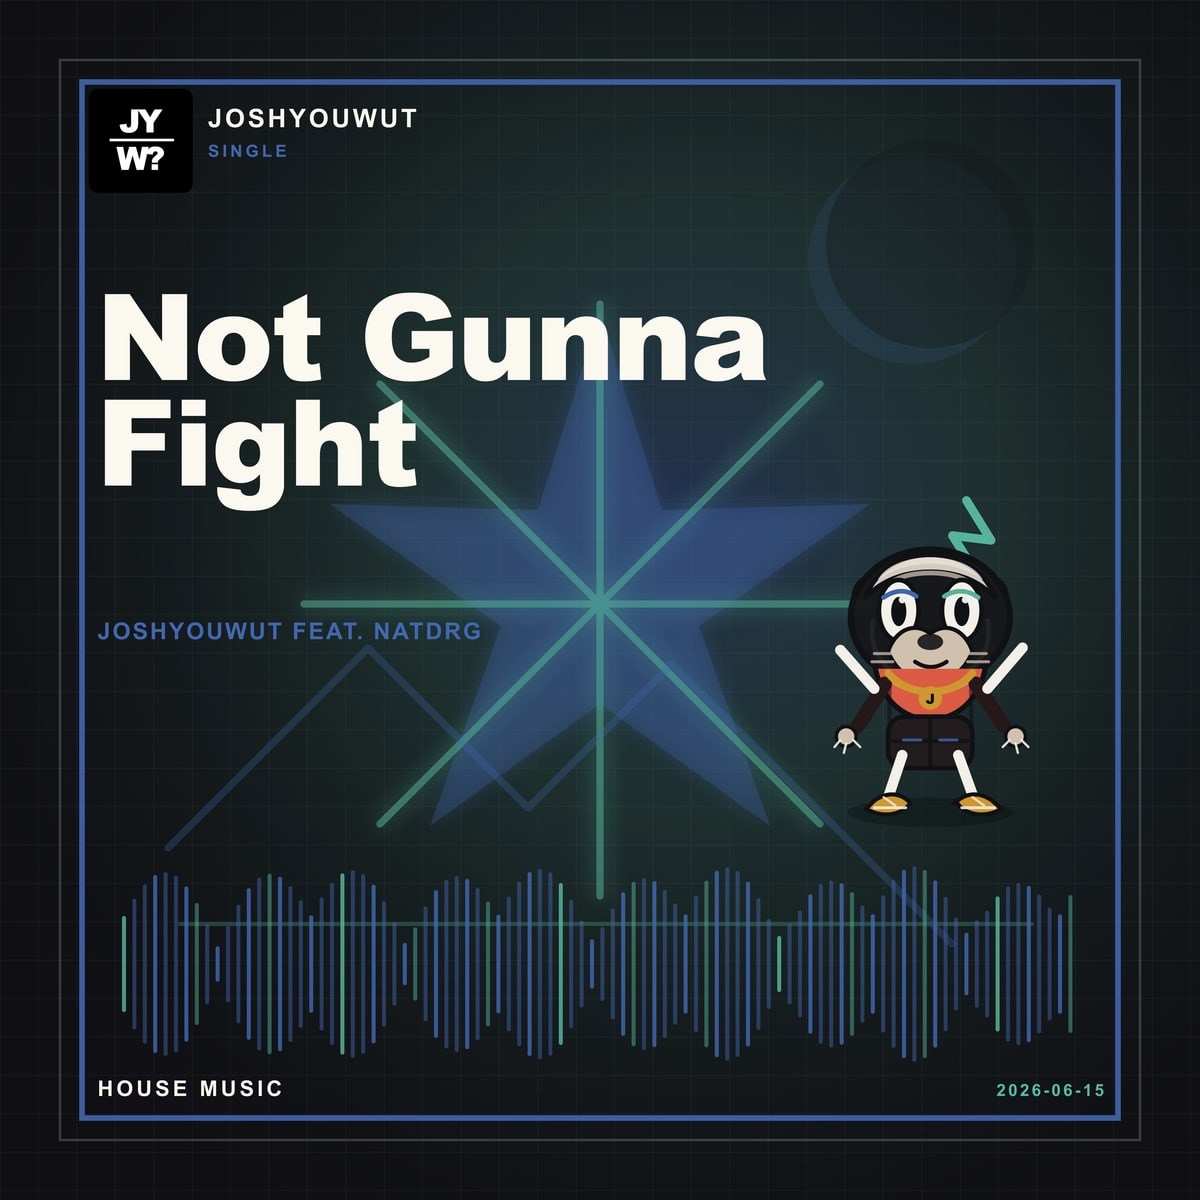
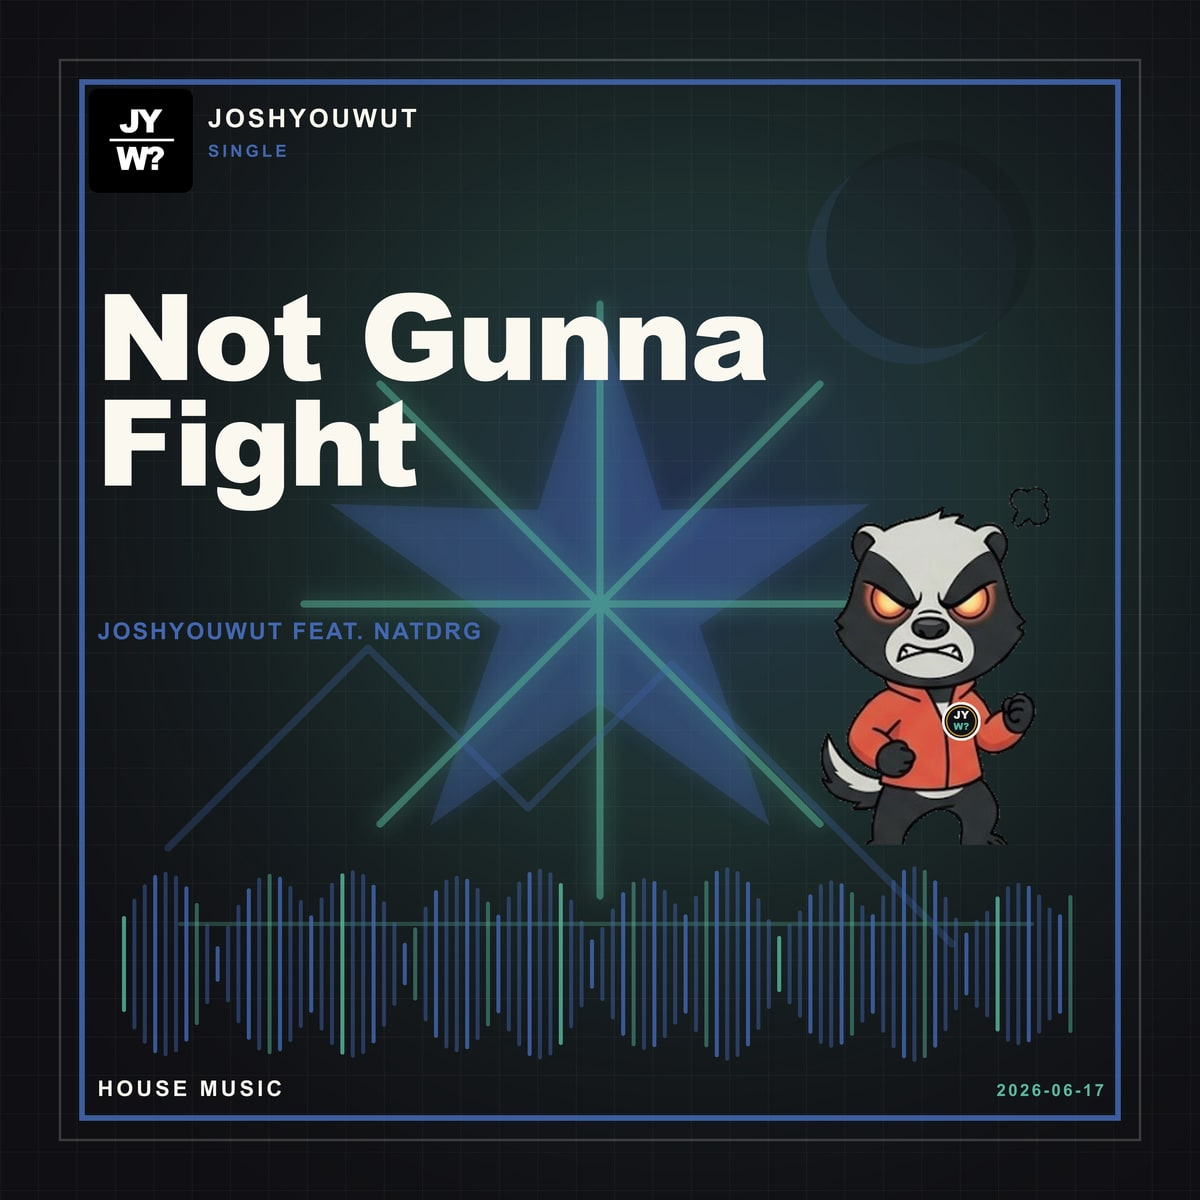
Use high-res Gemini badgers on cover vote

Changed region(s): [[0.6783, 0.4008, 0.8633, 0.7092]]

diff --git a/house-to-bet-the-house-on-vote-20260613.html b/house-to-bet-the-house-on-vote-20260613.html
@@ -171,68 +171,68 @@
         Pick the strongest version for each single and the EP cover. The full-resolution masters and editable SVG sources remain in the Google Drive project folder.
       </p>
 
-      <img class="contact-sheet" src="assets/releases/house-to-bet-the-house-on/voting-contact-sheet-house-to-bet.jpg?v=20260615-detailedbadger" alt="Voting contact sheet for House to Bet The House On cover art">
+      <img class="contact-sheet" src="assets/releases/house-to-bet-the-house-on/voting-contact-sheet-house-to-bet.jpg?v=20260617-geminibadgers" alt="Voting contact sheet for House to Bet The House On cover art">
 
       <section class="release-row">
         <h2>EP Cover</h2>
         <div class="grid">
-          <figure><img src="assets/releases/house-to-bet-the-house-on/00-house-to-bet-the-house-on-ep-cover-v1-club-pulse.jpg?v=20260615-detailedbadger" alt="EP cover option V1 Club Pulse"><figcaption><b>V1</b><span>Club Pulse</span></figcaption></figure>
-          <figure><img src="assets/releases/house-to-bet-the-house-on/00-house-to-bet-the-house-on-ep-cover-v2-bet-floor.jpg?v=20260615-detailedbadger" alt="EP cover option V2 Bet Floor"><figcaption><b>V2</b><span>Bet Floor</span></figcaption></figure>
-          <figure><img src="assets/releases/house-to-bet-the-house-on/00-house-to-bet-the-house-on-ep-cover-v3-night-roof.jpg?v=20260615-detailedbadger" alt="EP cover option V3 Night Roof"><figcaption><b>V3</b><span>Night Roof</span></figcaption></figure>
+          <figure><img src="assets/releases/house-to-bet-the-house-on/00-house-to-bet-the-house-on-ep-cover-v1-club-pulse.jpg?v=20260617-geminibadgers" alt="EP cover option V1 Club Pulse"><figcaption><b>V1</b><span>Club Pulse</span></figcaption></figure>
+          <figure><img src="assets/releases/house-to-bet-the-house-on/00-house-to-bet-the-house-on-ep-cover-v2-bet-floor.jpg?v=20260617-geminibadgers" alt="EP cover option V2 Bet Floor"><figcaption><b>V2</b><span>Bet Floor</span></figcaption></figure>
+          <figure><img src="assets/releases/house-to-bet-the-house-on/00-house-to-bet-the-house-on-ep-cover-v3-night-roof.jpg?v=20260617-geminibadgers" alt="EP cover option V3 Night Roof"><figcaption><b>V3</b><span>Night Roof</span></figcaption></figure>
         </div>
       </section>
 
       <section class="release-row">
         <h2>Dreams</h2>
         <div class="grid">
-          <figure><img src="assets/releases/house-to-bet-the-house-on/01-dreams-v1-club-pulse.jpg?v=20260615-detailedbadger" alt="Dreams option V1 Club Pulse"><figcaption><b>V1</b><span>Club Pulse</span></figcaption></figure>
-          <figure><img src="assets/releases/house-to-bet-the-house-on/01-dreams-v2-bet-floor.jpg?v=20260615-detailedbadger" alt="Dreams option V2 Bet Floor"><figcaption><b>V2</b><span>Bet Floor</span></figcaption></figure>
-          <figure><img src="assets/releases/house-to-bet-the-house-on/01-dreams-v3-night-roof.jpg?v=20260615-detailedbadger" alt="Dreams option V3 Night Roof"><figcaption><b>V3</b><span>Night Roof</span></figcaption></figure>
+          <figure><img src="assets/releases/house-to-bet-the-house-on/01-dreams-v1-club-pulse.jpg?v=20260617-geminibadgers" alt="Dreams option V1 Club Pulse"><figcaption><b>V1</b><span>Club Pulse</span></figcaption></figure>
+          <figure><img src="assets/releases/house-to-bet-the-house-on/01-dreams-v2-bet-floor.jpg?v=20260617-geminibadgers" alt="Dreams option V2 Bet Floor"><figcaption><b>V2</b><span>Bet Floor</span></figcaption></figure>
+          <figure><img src="assets/releases/house-to-bet-the-house-on/01-dreams-v3-night-roof.jpg?v=20260617-geminibadgers" alt="Dreams option V3 Night Roof"><figcaption><b>V3</b><span>Night Roof</span></figcaption></figure>
         </div>
       </section>
 
       <section class="release-row">
         <h2>Not Gunna Fight</h2>
         <div class="grid">
-          <figure><img src="assets/releases/house-to-bet-the-house-on/02-not-gunna-fight-v1-club-pulse.jpg?v=20260615-detailedbadger" alt="Not Gunna Fight option V1 Club Pulse"><figcaption><b>V1</b><span>Club Pulse</span></figcaption></figure>
-          <figure><img src="assets/releases/house-to-bet-the-house-on/02-not-gunna-fight-v2-bet-floor.jpg?v=20260615-detailedbadger" alt="Not Gunna Fight option V2 Bet Floor"><figcaption><b>V2</b><span>Bet Floor</span></figcaption></figure>
-          <figure><img src="assets/releases/house-to-bet-the-house-on/02-not-gunna-fight-v3-night-roof.jpg?v=20260615-detailedbadger" alt="Not Gunna Fight option V3 Night Roof"><figcaption><b>V3</b><span>Night Roof</span></figcaption></figure>
+          <figure><img src="assets/releases/house-to-bet-the-house-on/02-not-gunna-fight-v1-club-pulse.jpg?v=20260617-geminibadgers" alt="Not Gunna Fight option V1 Club Pulse"><figcaption><b>V1</b><span>Club Pulse</span></figcaption></figure>
+          <figure><img src="assets/releases/house-to-bet-the-house-on/02-not-gunna-fight-v2-bet-floor.jpg?v=20260617-geminibadgers" alt="Not Gunna Fight option V2 Bet Floor"><figcaption><b>V2</b><span>Bet Floor</span></figcaption></figure>
+          <figure><img src="assets/releases/house-to-bet-the-house-on/02-not-gunna-fight-v3-night-roof.jpg?v=20260617-geminibadgers" alt="Not Gunna Fight option V3 Night Roof"><figcaption><b>V3</b><span>Night Roof</span></figcaption></figure>
         </div>
       </section>
 
       <section class="release-row">
         <h2>Just Move</h2>
         <div class="grid">
-          <figure><img src="assets/releases/house-to-bet-the-house-on/03-just-move-v1-club-pulse.jpg?v=20260615-detailedbadger" alt="Just Move option V1 Club Pulse"><figcaption><b>V1</b><span>Club Pulse</span></figcaption></figure>
-          <figure><img src="assets/releases/house-to-bet-the-house-on/03-just-move-v2-bet-floor.jpg?v=20260615-detailedbadger" alt="Just Move option V2 Bet Floor"><figcaption><b>V2</b><span>Bet Floor</span></figcaption></figure>
-          <figure><img src="assets/releases/house-to-bet-the-house-on/03-just-move-v3-night-roof.jpg?v=20260615-detailedbadger" alt="Just Move option V3 Night Roof"><figcaption><b>V3</b><span>Night Roof</span></figcaption></figure>
+          <figure><img src="assets/releases/house-to-bet-the-house-on/03-just-move-v1-club-pulse.jpg?v=20260617-geminibadgers" alt="Just Move option V1 Club Pulse"><figcaption><b>V1</b><span>Club Pulse</span></figcaption></figure>
+          <figure><img src="assets/releases/house-to-bet-the-house-on/03-just-move-v2-bet-floor.jpg?v=20260617-geminibadgers" alt="Just Move option V2 Bet Floor"><figcaption><b>V2</b><span>Bet Floor</span></figcaption></figure>
+          <figure><img src="assets/releases/house-to-bet-the-house-on/03-just-move-v3-night-roof.jpg?v=20260617-geminibadgers" alt="Just Move option V3 Night Roof"><figcaption><b>V3</b><span>Night Roof</span></figcaption></figure>
         </div>
       </section>
 
       <section class="release-row">
         <h2>Lil Bass Baby Demo</h2>
         <div class="grid">
-          <figure><img src="assets/releases/house-to-bet-the-house-on/04-lil-bass-baby-demo-v1-club-pulse.jpg?v=20260615-detailedbadger" alt="Lil Bass Baby Demo option V1 Club Pulse"><figcaption><b>V1</b><span>Club Pulse</span></figcaption></figure>
-          <figure><img src="assets/releases/house-to-bet-the-house-on/04-lil-bass-baby-demo-v2-bet-floor.jpg?v=20260615-detailedbadger" alt="Lil Bass Baby Demo option V2 Bet Floor"><figcaption><b>V2</b><span>Bet Floor</span></figcaption></figure>
-          <figure><img src="assets/releases/house-to-bet-the-house-on/04-lil-bass-baby-demo-v3-night-roof.jpg?v=20260615-detailedbadger" alt="Lil Bass Baby Demo option V3 Night Roof"><figcaption><b>V3</b><span>Night Roof</span></figcaption></figure>
+          <figure><img src="assets/releases/house-to-bet-the-house-on/04-lil-bass-baby-demo-v1-club-pulse.jpg?v=20260617-geminibadgers" alt="Lil Bass Baby Demo option V1 Club Pulse"><figcaption><b>V1</b><span>Club Pulse</span></figcaption></figure>
+          <figure><img src="assets/releases/house-to-bet-the-house-on/04-lil-bass-baby-demo-v2-bet-floor.jpg?v=20260617-geminibadgers" alt="Lil Bass Baby Demo option V2 Bet Floor"><figcaption><b>V2</b><span>Bet Floor</span></figcaption></figure>
+          <figure><img src="assets/releases/house-to-bet-the-house-on/04-lil-bass-baby-demo-v3-night-roof.jpg?v=20260617-geminibadgers" alt="Lil Bass Baby Demo option V3 Night Roof"><figcaption><b>V3</b><span>Night Roof</span></figcaption></figure>
         </div>
       </section>
 
       <section class="release-row">
         <h2>Feels Right</h2>
         <div class="grid">
-          <figure><img src="assets/releases/house-to-bet-the-house-on/05-feels-right-v1-club-pulse.jpg?v=20260615-detailedbadger" alt="Feels Right option V1 Club Pulse"><figcaption><b>V1</b><span>Club Pulse</span></figcaption></figure>
-          <figure><img src="assets/releases/house-to-bet-the-house-on/05-feels-right-v2-bet-floor.jpg?v=20260615-detailedbadger" alt="Feels Right option V2 Bet Floor"><figcaption><b>V2</b><span>Bet Floor</span></figcaption></figure>
-          <figure><img src="assets/releases/house-to-bet-the-house-on/05-feels-right-v3-night-roof.jpg?v=20260615-detailedbadger" alt="Feels Right option V3 Night Roof"><figcaption><b>V3</b><span>Night Roof</span></figcaption></figure>
+          <figure><img src="assets/releases/house-to-bet-the-house-on/05-feels-right-v1-club-pulse.jpg?v=20260617-geminibadgers" alt="Feels Right option V1 Club Pulse"><figcaption><b>V1</b><span>Club Pulse</span></figcaption></figure>
+          <figure><img src="assets/releases/house-to-bet-the-house-on/05-feels-right-v2-bet-floor.jpg?v=20260617-geminibadgers" alt="Feels Right option V2 Bet Floor"><figcaption><b>V2</b><span>Bet Floor</span></figcaption></figure>
+          <figure><img src="assets/releases/house-to-bet-the-house-on/05-feels-right-v3-night-roof.jpg?v=20260617-geminibadgers" alt="Feels Right option V3 Night Roof"><figcaption><b>V3</b><span>Night Roof</span></figcaption></figure>
         </div>
       </section>
 
       <section class="release-row">
         <h2>Take it To The House</h2>
         <div class="grid">
-          <figure><img src="assets/releases/house-to-bet-the-house-on/06-take-it-to-the-house-v1-club-pulse.jpg?v=20260615-detailedbadger" alt="Take it To The House option V1 Club Pulse"><figcaption><b>V1</b><span>Club Pulse</span></figcaption></figure>
-          <figure><img src="assets/releases/house-to-bet-the-house-on/06-take-it-to-the-house-v2-bet-floor.jpg?v=20260615-detailedbadger" alt="Take it To The House option V2 Bet Floor"><figcaption><b>V2</b><span>Bet Floor</span></figcaption></figure>
-          <figure><img src="assets/releases/house-to-bet-the-house-on/06-take-it-to-the-house-v3-night-roof.jpg?v=20260615-detailedbadger" alt="Take it To The House option V3 Night Roof"><figcaption><b>V3</b><span>Night Roof</span></figcaption></figure>
+          <figure><img src="assets/releases/house-to-bet-the-house-on/06-take-it-to-the-house-v1-club-pulse.jpg?v=20260617-geminibadgers" alt="Take it To The House option V1 Club Pulse"><figcaption><b>V1</b><span>Club Pulse</span></figcaption></figure>
+          <figure><img src="assets/releases/house-to-bet-the-house-on/06-take-it-to-the-house-v2-bet-floor.jpg?v=20260617-geminibadgers" alt="Take it To The House option V2 Bet Floor"><figcaption><b>V2</b><span>Bet Floor</span></figcaption></figure>
+          <figure><img src="assets/releases/house-to-bet-the-house-on/06-take-it-to-the-house-v3-night-roof.jpg?v=20260617-geminibadgers" alt="Take it To The House option V3 Night Roof"><figcaption><b>V3</b><span>Night Roof</span></figcaption></figure>
         </div>
       </section>
     </main>
